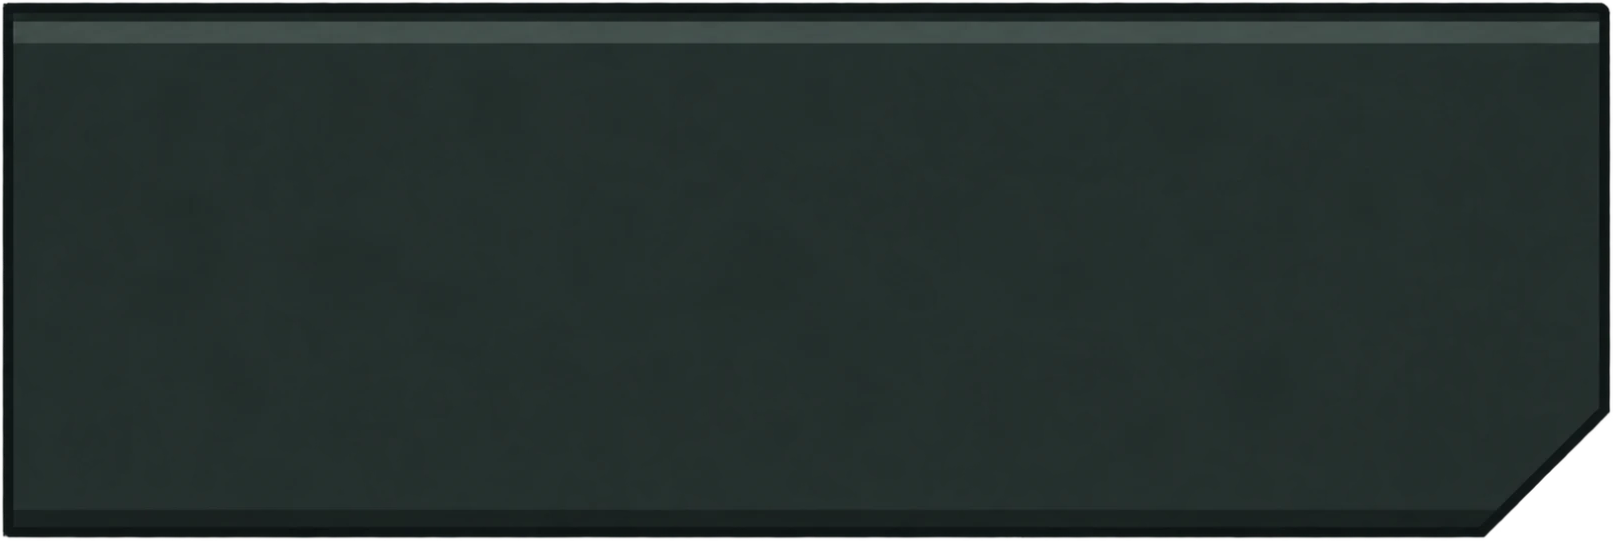
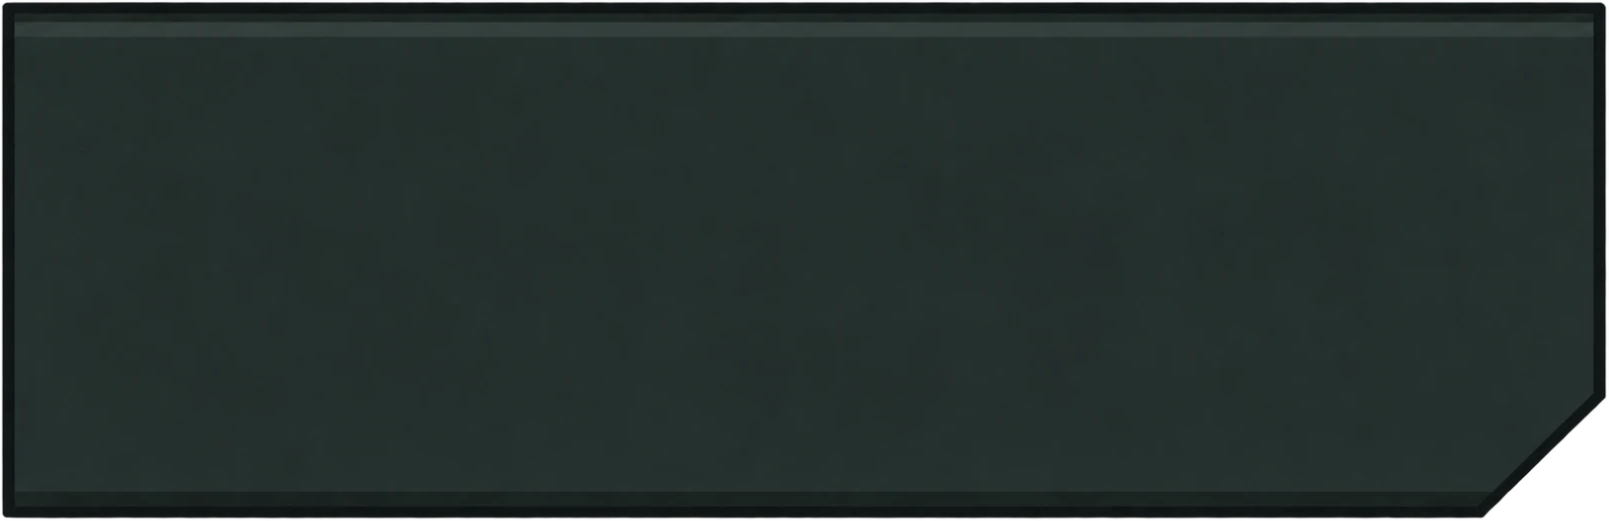
Replace room name plate art with new user-provided panel
Keep 0.7x size, text size and top-left placement.

Claude-Session: https://claude.ai/code/session_014aytw3hj7boqn3SZ5GP5ti

diff --git a/docs/design/PROTOTYPE_GDD_v1_0.md b/docs/design/PROTOTYPE_GDD_v1_0.md
@@ -4,7 +4,7 @@
 
 ## 0. 현재 구현 반영 (변경될 때마다 갱신)
 > 아래는 원 기획 이후 사용자 결정으로 바뀐 내용. 상세 결정 이력은 `00_decision_log_v1_0.md`, 아트 규격은 `../ui_art_spec.md`.
-> 마지막 갱신: 2026-10-31 (상단 뒤 띠 = 두 패널 사이에만)
+> 마지막 갱신: 2026-10-31 (방 이름표 그림 교체)
 
 - **표현**: 캐릭터 2D **스프라이트 프레임 애니메이션**(**스프라이트 시트** `assets/characters/<id>/<동작>_<칸 수>.png`, 사용자가 제작 — 시트 없는 동작은 기본 그림 한 장. 현재: 하나·니키타·키라·단·이선·앨마 idle(기본 그림 숨쉬기) — 니키타(빨간 머리 의무병 코트)·키라(회색 군복, 최종)·하나(곱슬머리 군복·오른쪽 눈 아래 점, 최종)·앨마(흰 의무 가운)는 새 그림으로 교체되어 예전 걷기·피격·공격 시트는 지움) + 배경 3D(실광원·그림자). Skeleton2D 리그·3D 캐릭터 전환은 제거.
   칠 방식: **전 캐릭터 네온 칠**(선화는 원화 그대로, 면은 원화 밝기대로 조명색으로 덮음 — 어두운 면은 깊은 보라, 밝은 면은 조명색). `character.json` `"style": "classic"` 이면 예전 셀 칠, `"neon_gradient"` 0~1 = 몸 위→아래 색상 그라데이션(기본 끔).
@@ -29,7 +29,7 @@
 - **인간 적군 AU군 거한** (bigman): 근접 거한(키 205cm, HP 120, 방어 3, AI aggressive) [임시]. 모션 9종 + idle · 지침 리깅. 쓰러진 그림(dead)은 이제 몸이 발밑 그림자 위에 놓이게 (몸 두께 30% 아래로).
 - **전투 겹침 정리**: 체력 · AP 칸과 상태 배지는 그 유닛 바로 위 층 (앞줄 캐릭터에 가려짐), 쓰러진 캐릭터는 안 보임. 쓰러진 캐릭터는 살아 있는 캐릭터 뒤 층, 조금 뒤로 물러나 눕고 가운데 열은 몸 두께만큼 더 뒤로 → 쓰러진 몸끼리 안 겹침. 누운 몸 길이는 선 키와 같게 (긴 그림은 작게 그림 — 단 · 하나는 원래 크기 유지).
 - **기지 조작**: 대원 클릭 = 선택, **선택한 대원을 한 번 더 클릭 = 선택 해제** (대화는 우클릭 메뉴). 선택해도 오른쪽 아래 카드는 안 뜸 — **우클릭 → '정보 보기'** 를 누르면 화면 가운데 창 (모든 대원; 전투 대원은 장비 · 스킬 트리 포함). 기지 로그창은 오른쪽 위 모서리 아이콘(UI 패키지 schedule)으로 접기 · 펴기.
-- **기지 UI v2** (사용자 제공 UI 패키지 + 레퍼런스 화면, 원본 art_src/ui/ui_package_v2.webp · ref_outgame_v2.webp): 왼쪽 위 = 두 줄 패널(달력 · 날짜 · 속도 버튼 ■ ▶ 4x 16x — 지금 속도는 초록 / 지폐 · 잔액 | 미지급 | 결산 D-day), 오른쪽 위 = 새 아이콘 타일 11개(전투 출전만 주황) — 뒤에 팔각 어두운 띠 패널(사용자 제공, 날짜 패널과 같은 높이), 층 표시 = 지금 보는 층 금색 태그 · 나머지 어두운 태그, 방 이름 = 사용자 제공 이름 패널(오른쪽 아래만 비스듬히 잘린 어두운 판, 방 왼쪽 위 모서리에 딱 맞춤), 상단 HUD 맨 뒤 = 어두운 띠(사용자 제공) — 날짜 패널과 아이콘 패널 사이 틈에만 보임, 운영 기록 = 머리 탭 · 스크롤 막대 · 주황 점 패널(2줄, 머리 탭 · 주황 점 = 접기, 접으면 "운영 기록 ▸" 탭), 오른쪽 아래 = − 100% + 패널, 맨 아래 = 조작 안내 띠(| 구분), 머리 위 ! = 노란 동그라미, 카세트 ▲▼ 삼각형. **잠긴 방** = 볼트 달린 검은 패널(사용자 제공, 볼트는 작은 점 크기) 위에 자물쇠 · 해금 비용. **층 테두리** = ui-room (층마다 그 층 방 전체를 감쌈 — 위 · 아래 볼트 띠가 층 사이), 마우스를 올린 방 = 크림색 테두리 (최종 시안 = art_src/ui/ref_outgame_v2.webp). 방 이름표 · 조작 안내 · 기록 줄은 틀 밖으로 안 나감(줄이거나 자름).
+- **기지 UI v2** (사용자 제공 UI 패키지 + 레퍼런스 화면, 원본 art_src/ui/ui_package_v2.webp · ref_outgame_v2.webp): 왼쪽 위 = 두 줄 패널(달력 · 날짜 · 속도 버튼 ■ ▶ 4x 16x — 지금 속도는 초록 / 지폐 · 잔액 | 미지급 | 결산 D-day), 오른쪽 위 = 새 아이콘 타일 11개(전투 출전만 주황) — 뒤에 팔각 어두운 띠 패널(사용자 제공, 날짜 패널과 같은 높이), 층 표시 = 지금 보는 층 금색 태그 · 나머지 어두운 태그, 방 이름 = 사용자 제공 이름 패널(위쪽 밝은 선 · 오른쪽 아래만 비스듬히 잘린 어두운 판, 0.7배, 방 왼쪽 위 모서리에 딱 맞춤 — 원본 art_src/ui/room_name_panel.webp), 상단 HUD 맨 뒤 = 어두운 띠(사용자 제공) — 날짜 패널과 아이콘 패널 사이 틈에만 보임, 운영 기록 = 머리 탭 · 스크롤 막대 · 주황 점 패널(2줄, 머리 탭 · 주황 점 = 접기, 접으면 "운영 기록 ▸" 탭), 오른쪽 아래 = − 100% + 패널, 맨 아래 = 조작 안내 띠(| 구분), 머리 위 ! = 노란 동그라미, 카세트 ▲▼ 삼각형. **잠긴 방** = 볼트 달린 검은 패널(사용자 제공, 볼트는 작은 점 크기) 위에 자물쇠 · 해금 비용. **층 테두리** = ui-room (층마다 그 층 방 전체를 감쌈 — 위 · 아래 볼트 띠가 층 사이), 마우스를 올린 방 = 크림색 테두리 (최종 시안 = art_src/ui/ref_outgame_v2.webp). 방 이름표 · 조작 안내 · 기록 줄은 틀 밖으로 안 나감(줄이거나 자름).
 - **기지 클릭 판정**: 대원은 **몸 그림의 불투명 픽셀** 어디를 눌러도 선택 (예전 사각형은 상반신을 놓침, 빈 곳은 안 잡힘). 머리 위 **'!' 를 누르면 요청 대화**(수락). **방 빈 곳 우클릭** = 그 방 메뉴 → '정보 보기' = 도감 '기지 시설' 탭의 그 방 (선택한 대원이 그 방에 있으면 대원 행동도 같은 메뉴에).
 - **날짜 속도 버튼** (사용자 제공 그림): 정지 = ■ 버튼, 1배 = ▶ 버튼, 4배 · 16배 = 빈 버튼 + 글자. 지금 속도는 금빛, 나머지는 살짝 어둡게.
 - **배경음악 · 주크박스**: 배경음악 5곡 (`assets/audio/bgm/`, 목록 · 제목 · 음량 `data/bgm.json`), 기지에 들어오면 재생 · 장면이 바뀌어도 이어짐 · 곡이 끝나면 다음 곡. **공용실 오른쪽 주크박스**(대원을 선택하지 않은 상태에서 주크박스 어디든 — 마우스를 올리면 금색 테두리 + '클릭: 음악')를 누르면 **주크박스 바로 왼쪽에 음악 카세트 창**(카메라를 움직여도 따라감)(사용자 제공 그림) — 빈 칸에 지금 곡 제목, 위 ▲ = 이전 곡, 아래 ▼ = 다음 곡. 주크박스를 다시 누르면 닫힘.

diff --git a/README.md b/README.md
@@ -343,7 +343,7 @@ git 이 없는 설치(zip)는 같은 설치 명령을 다시 실행하면 최신
 ![방 빈 곳 우클릭 메뉴](docs/screenshots/outgame_room_menu.jpg)
 ![전투 지침 자세 유지 (AP 1)](docs/screenshots/battle_tired_hold.jpg)
 
-- **기지 UI v2** (사용자 제공 UI 패키지 `art_src/ui/ui_package_v2.webp` + 레퍼런스 `art_src/ui/ref_outgame_v2.webp` → 조각 `assets/ui/outgame/v2/`): 두 줄 날짜 패널 · 새 아이콘 타일(뒤에 팔각 띠 패널) · 금색/어두운 층 태그 · 방 이름 패널(`plate_room.png`) · 운영 기록 패널(머리 탭 · 주황 점 = 접기) · − 100% + · 조작 안내 띠 · ! 동그라미.
+- **기지 UI v2** (사용자 제공 UI 패키지 `art_src/ui/ui_package_v2.webp` + 레퍼런스 `art_src/ui/ref_outgame_v2.webp` → 조각 `assets/ui/outgame/v2/`): 두 줄 날짜 패널 · 새 아이콘 타일(뒤에 팔각 띠 패널) · 금색/어두운 층 태그 · 방 이름 패널(`plate_room.png` — 위쪽 밝은 선 · 오른쪽 아래 비스듬히 잘린 판, 원본 `art_src/ui/room_name_panel.webp`) · 운영 기록 패널(머리 탭 · 주황 점 = 접기) · − 100% + · 조작 안내 띠 · ! 동그라미.
 
 ![기지 UI v2](docs/screenshots/outgame_ui_v2.jpg)
 - **잠긴 방** = 볼트 달린 검은 패널(사용자 제공, `assets/ui/outgame/v2/panel_locked.png`, 볼트 작은 점) + 자물쇠 · 해금 비용, 층마다 ui-room 테두리(`room_frame.png`, 위 · 아래 볼트 띠). 최종 시안 = `art_src/ui/ref_outgame_v2.webp`. 확인 `--base_ui=zoom_out`.

diff --git a/docs/design/00_decision_log_v1_0.md b/docs/design/00_decision_log_v1_0.md
@@ -594,6 +594,10 @@
 
 - **2026-10-31 상단 뒤 띠 범위** (사용자 스샷의 붉은 네모): 화면 폭 전체 → 왼쪽 날짜 패널 오른쪽 끝 ~ 오른쪽 아이콘 패널 왼쪽 끝 사이(양쪽 패널 뒤로 12씩 들어감), 세로는 패널 높이의 가운데 68%. 패널 폭이 바뀌면 매 프레임 따라감.
 
+### 2026-10-31 — 방 이름표 그림 교체
+- 사용자 제공 새 이름표(위쪽 밝은 선 · 오른쪽 아래 비스듬히 잘린 어두운 판)로 assets/ui/outgame/v2/plate_room.png 교체. 원본 art_src/ui/room_name_panel.webp.
+- 크기(0.7배, 높이 20) · 글자 크기 · 위치(방 왼쪽 위 모서리)는 그대로.
+
 ## 검증 중 (확정 아님)
 - **배경 3D + 캐릭터 2D 하이브리드** (2026-10-25 적용): 배경은 3D 방을 2D 카메라와 같은 투영으로 렌더, 캐릭터 라이팅은 실제 광원 위치 기준
   (빛 쪽 얼굴·몸을 광원색으로 밝힘 + 빛이 뒤에서 오면 같은 쪽 가장자리 림 + 바닥 그림자). 캐릭터 2D(리그)는 확정 사항 유지. (이전 2D 배경 판은 2026-10-27 제거.)
